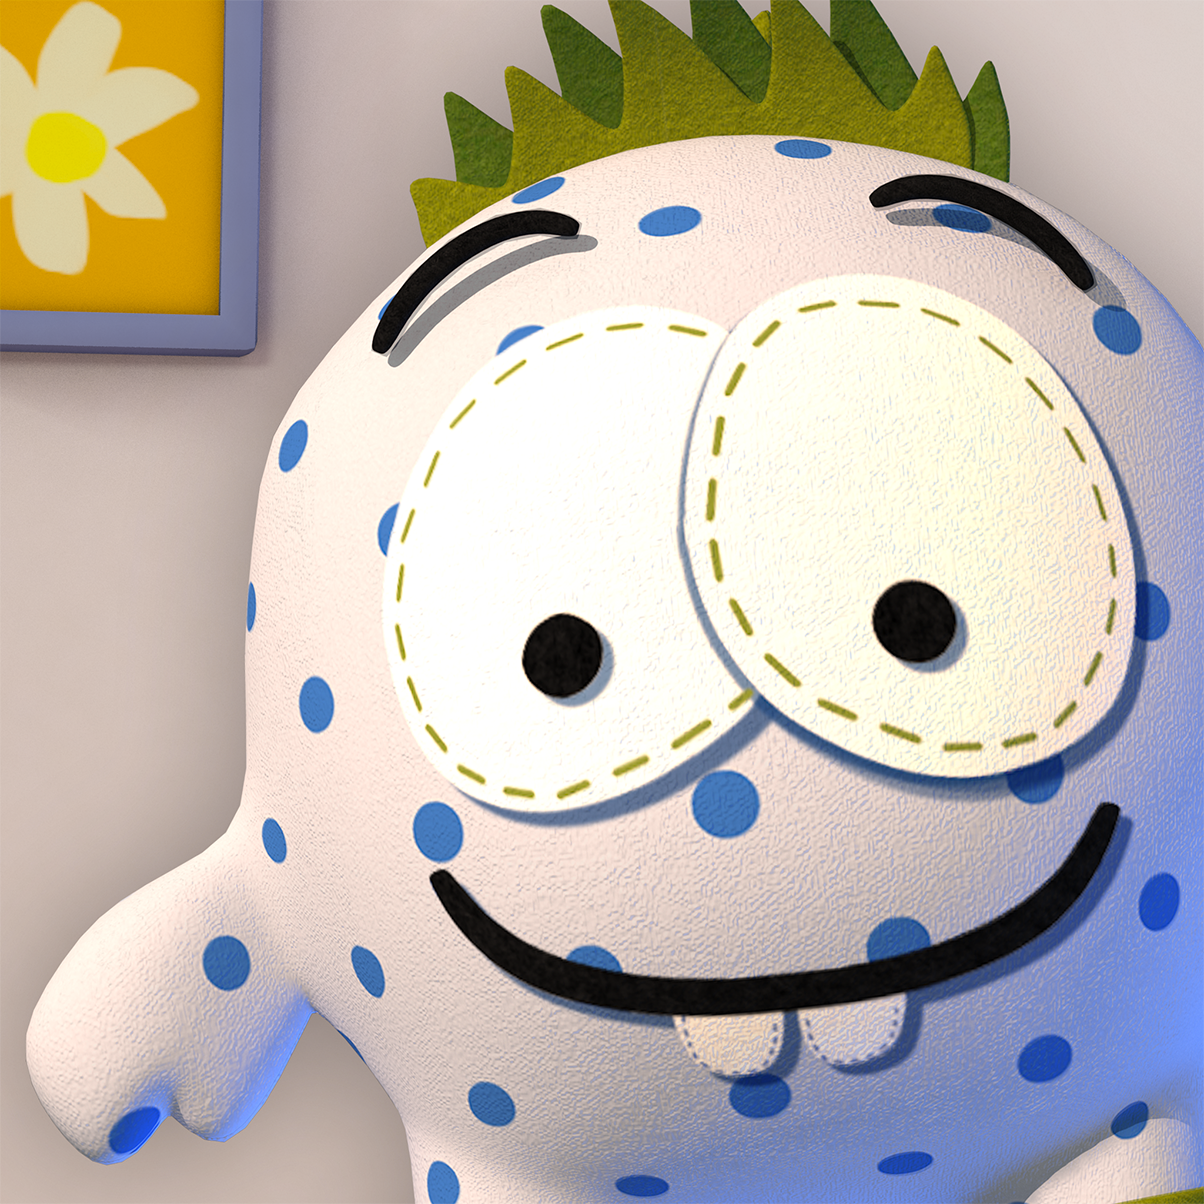
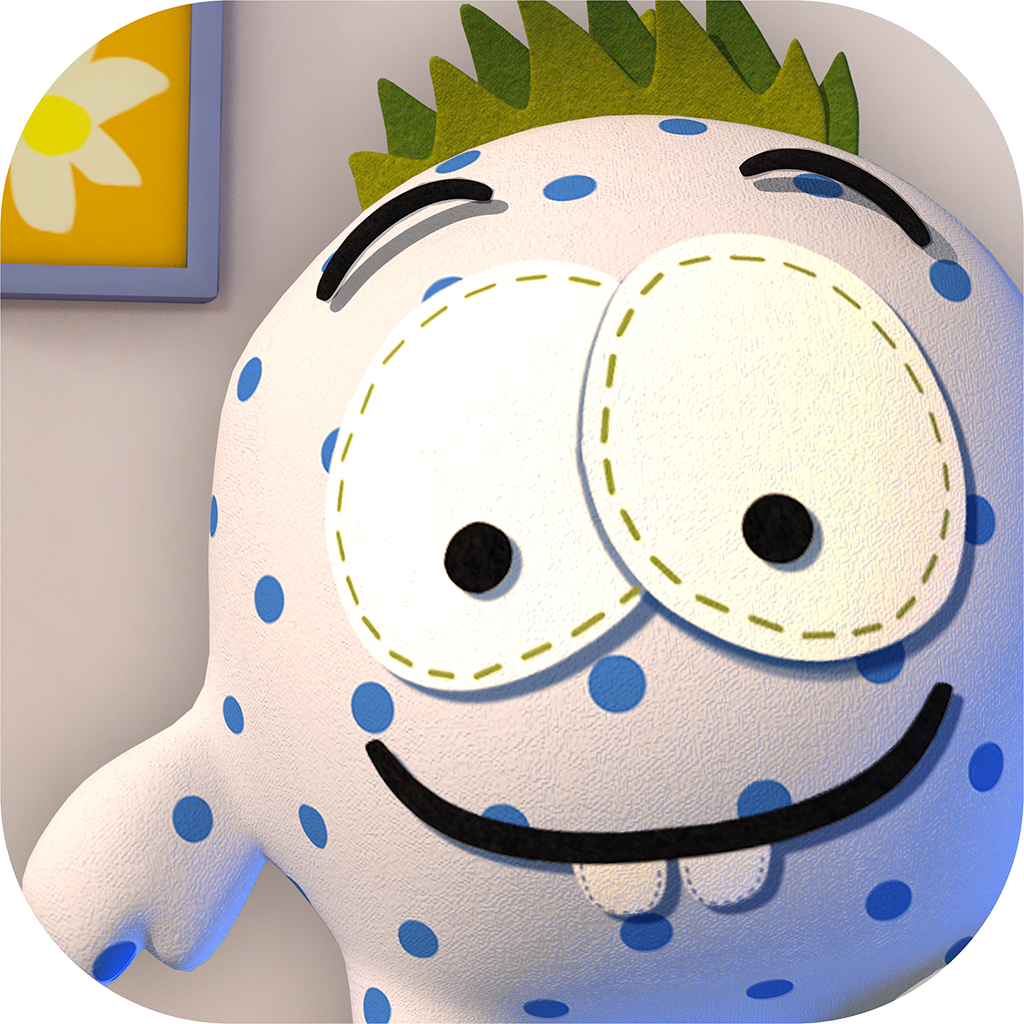
Cambio de icono y fixes de carga de padres

diff --git a/Assets/Scripts/WebView/WebViewer.cs b/Assets/Scripts/WebView/WebViewer.cs
@@ -47,7 +47,10 @@ public class WebViewer : MonoBehaviour
 			 },
 			 ld: (msg) =>
 			 {
-				webViewObject.SetVisibility(true);
+				#if UNITY_ANDROID
+					webViewObject.SetVisibility(true);
+				#endif
+
 				Debug.Log(string.Format("CallOnLoaded[{0}]", msg));
 #if !UNITY_ANDROID
                 webViewObject.EvaluateJS(@"
@@ -65,6 +68,9 @@ public class WebViewer : MonoBehaviour
 				},
 		enableWKWebView: true);
 		webViewObject.SetMargins(leftMargin, topMargin, rightMargin, bottomMargin);
+		#if !UNITY_ANDROID
+			webViewObject.SetVisibility(true);
+		#endif
 
 #if !UNITY_WEBPLAYER
 		if (Url.StartsWith("http"))
